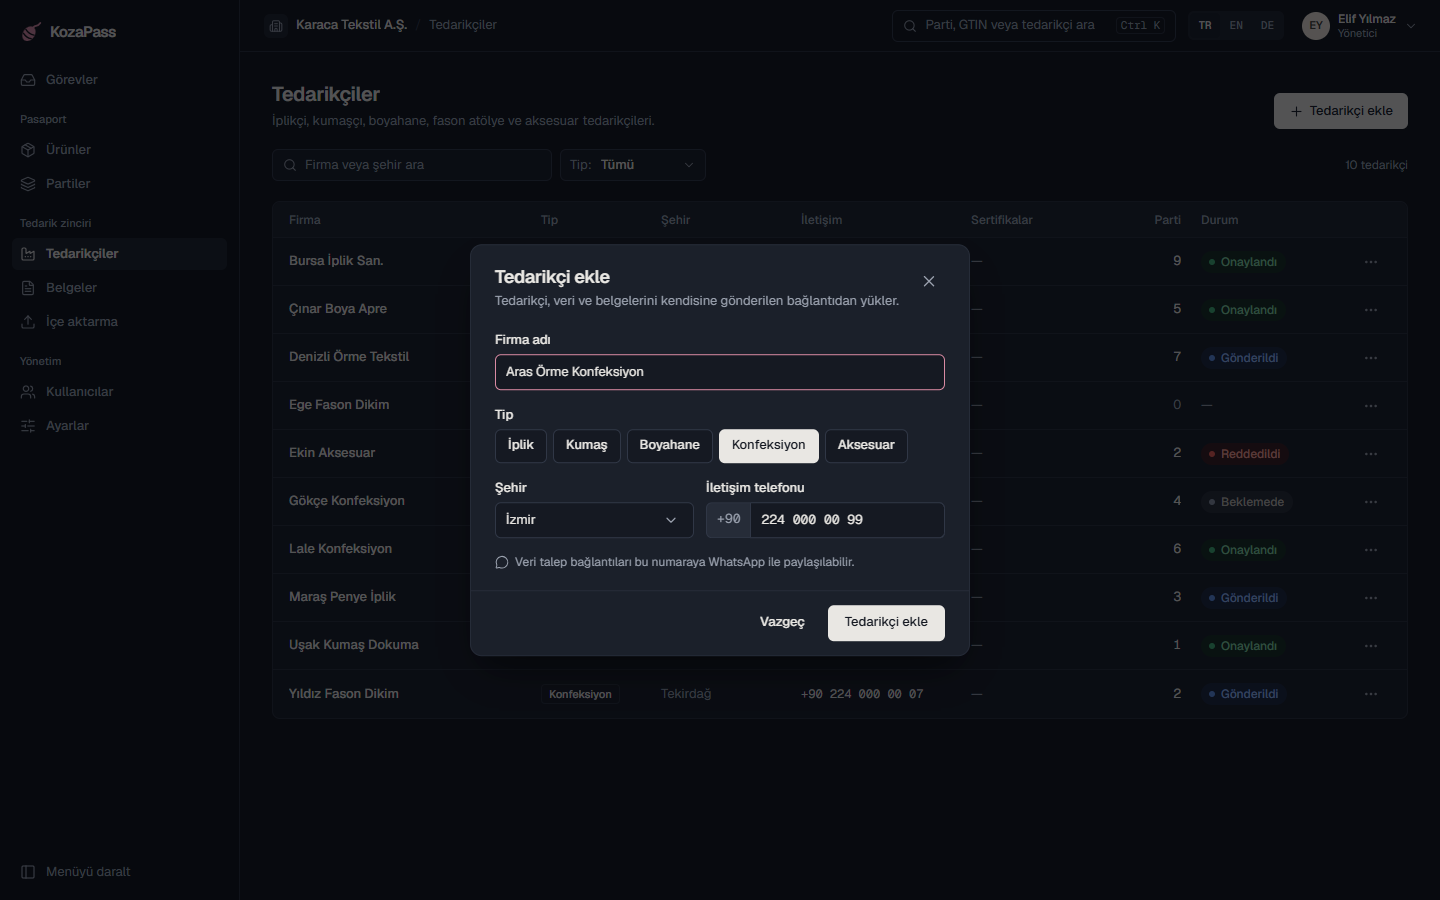
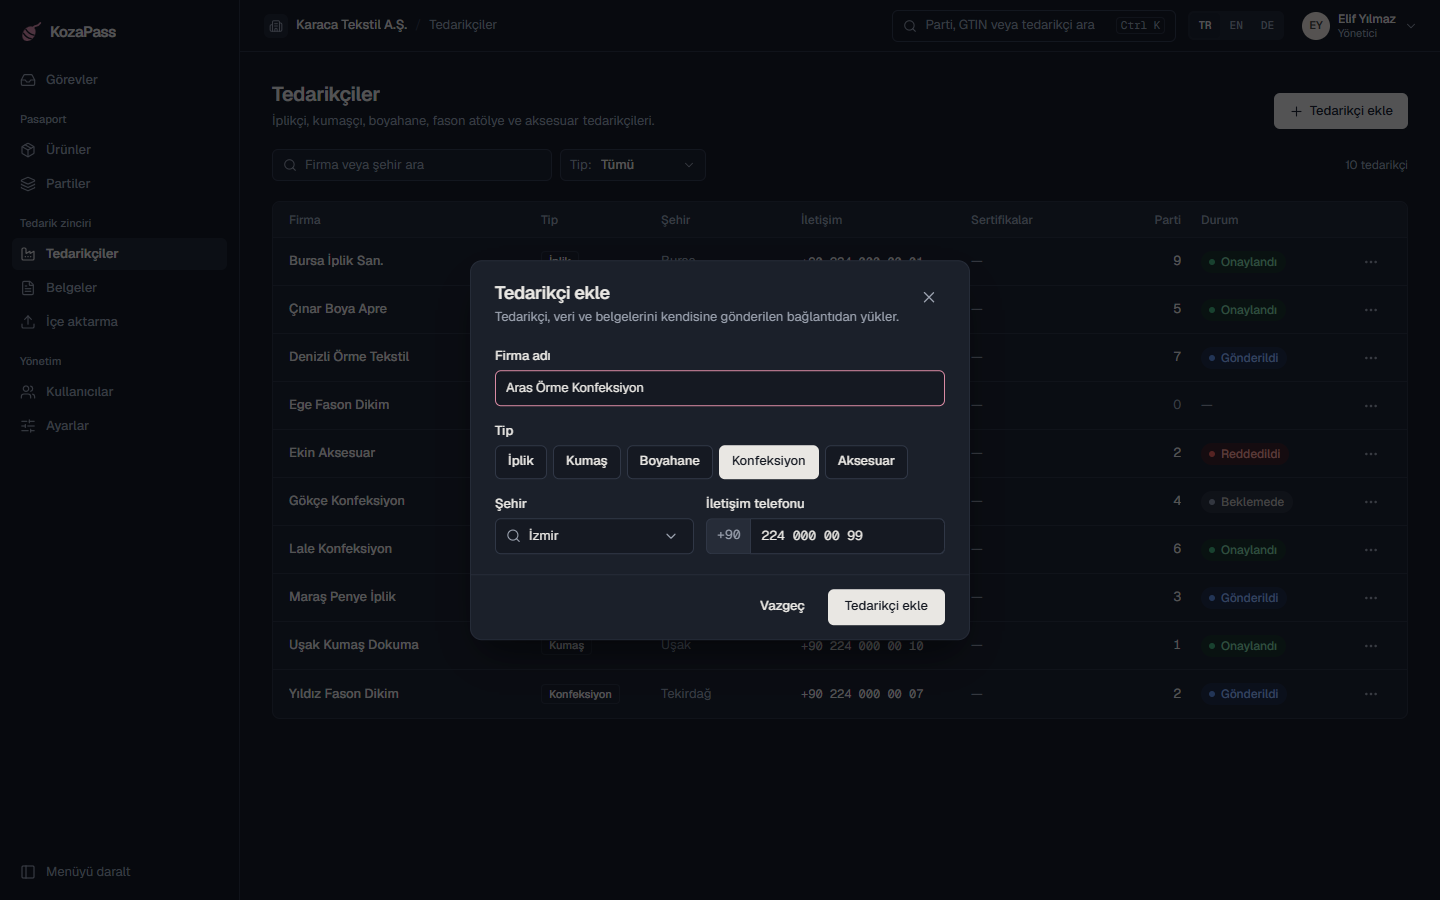
test(web): screenshots impl-v0.3.2 31-38, refresh impl-v0.3 and impl-v0.3.1

Changed region(s): [[0.3125, 0.28, 0.6875, 0.7467]]

diff --git a/web/e2e/screenshots-v032.spec.ts b/web/e2e/screenshots-v032.spec.ts
@@ -1,0 +1,211 @@
+import { expect, type Page, test } from "@playwright/test";
+import path from "node:path";
+import { mockAuthApi } from "./api-mock";
+import { mockCatalogApi, NOW } from "./catalog-mock";
+import { captureDesignFrames, serveDesign } from "./design-capture";
+
+/*
+ * Screenshots for the side-by-side review with Claude Design v0.3.2 (docs/design/impl-v0.3.2/), frames 31–38.
+ * NN-<theme>.png come from the app, design-NN-<theme>.png from the approved design file.
+ * Run: pnpm --filter web e2e screenshots-v032
+ */
+const OUT = path.resolve(__dirname, "../../docs/design/impl-v0.3.2");
+const DESIGN_DIR = path.resolve(__dirname, "../../docs/design/v0.3.2");
+const DESKTOP = { width: 1440, height: 900 };
+
+type Scheme = "light" | "dark";
+
+async function prepare(page: Page, scheme: Scheme, { clock = true } = {}) {
+  await page.setViewportSize(DESKTOP);
+  if (clock) await page.clock.install({ time: NOW });
+  await page.addInitScript((theme) => localStorage.setItem("theme", theme), scheme);
+}
+
+async function shoot(page: Page, name: string) {
+  await page.evaluate(() => document.fonts.ready);
+  await page.waitForTimeout(400);
+  await page.screenshot({ path: `${OUT}/${name}.png` });
+}
+
+/** The server sleeps: the liveness check never answers 200 and the first `url` request never answers. */
+async function sleepingServer(page: Page, url: RegExp, method = "GET") {
+  await page.route("**/api/health", (route) => route.fulfill({ status: 503, body: "" }));
+  let first = true;
+  await page.route(url, (route) => {
+    if (route.request().method() !== method) return route.fallback();
+    if (first) {
+      first = false;
+      return undefined;
+    }
+    return route.fallback();
+  });
+}
+
+async function openSuppliers(page: Page) {
+  await mockAuthApi(page, { signedIn: true });
+  await mockCatalogApi(page);
+  await page.goto("/suppliers");
+  await expect(page.getByRole("row", { name: /Bursa İplik San\./ })).toBeVisible();
+}
+
+for (const scheme of ["light", "dark"] as const) {
+  test.describe(`${scheme} theme`, () => {
+    test.use({ colorScheme: scheme });
+
+    test("31a login, the server is starting", async ({ page }) => {
+      await prepare(page, scheme);
+      await mockAuthApi(page, { signedIn: false });
+      await sleepingServer(page, /\/api\/v1\/auth\/login$/, "POST");
+      await page.goto("/login");
+      await page.getByLabel("E-posta").fill("elif@karacatekstil.com.tr");
+      await page.getByLabel("Şifre", { exact: true }).fill("demo-sifre");
+      await page.getByRole("button", { name: "Giriş yap" }).click();
+      await expect(page.getByRole("status").filter({ hasText: "Sunucu hazırlanıyor" })).toBeVisible({ timeout: 6_000 });
+      // As in the design: about half a minute in.
+      await page.clock.fastForward(31_000);
+      await expect(page.getByRole("status").filter({ hasText: "0:3" })).toBeVisible();
+      await page.mouse.move(0, 0);
+      await shoot(page, `31a-${scheme}`);
+    });
+
+    test("31b login, not ready after 90 s", async ({ page }) => {
+      await prepare(page, scheme);
+      await mockAuthApi(page, { signedIn: false });
+      await sleepingServer(page, /\/api\/v1\/auth\/login$/, "POST");
+      await page.goto("/login");
+      await page.getByLabel("E-posta").fill("elif@karacatekstil.com.tr");
+      await page.getByLabel("Şifre", { exact: true }).fill("demo-sifre");
+      await page.getByRole("button", { name: "Giriş yap" }).click();
+      await expect(page.getByRole("status").filter({ hasText: "Sunucu hazırlanıyor" })).toBeVisible({ timeout: 6_000 });
+      await page.clock.fastForward(91_000);
+      await expect(page.getByRole("button", { name: "Tekrar dene" })).toBeEnabled();
+      await page.mouse.move(0, 0);
+      await shoot(page, `31b-${scheme}`);
+    });
+
+    test("32 batches, the server is starting", async ({ page }) => {
+      await prepare(page, scheme);
+      await mockAuthApi(page, { signedIn: true });
+      await mockCatalogApi(page);
+      await sleepingServer(page, /\/api\/v1\/batches(\?.*)?$/);
+      await page.goto("/batches");
+      await expect(page.getByRole("status").filter({ hasText: "Hazır olunca liste" })).toBeVisible({ timeout: 6_000 });
+      await page.clock.fastForward(20_000);
+      await page.mouse.move(0, 0);
+      await shoot(page, `32-${scheme}`);
+    });
+
+    test("33 product save, server error toast", async ({ page }) => {
+      await prepare(page, scheme);
+      await mockAuthApi(page, { signedIn: true });
+      await mockCatalogApi(page);
+      await page.route(/\/api\/v1\/products\/[0-9a-f-]+$/, (route) =>
+        route.request().method() !== "PATCH"
+          ? route.fallback()
+          : route.fulfill({
+              status: 503,
+              contentType: "application/problem+json",
+              headers: { "X-Request-Id": "ab12-cd34" },
+              body: JSON.stringify({ type: "urn:tekpas:problem:internal", title: "Service unavailable", status: 503, requestId: "ab12-cd34" }),
+            }),
+      );
+      await page.goto("/products");
+      await page.getByRole("button", { name: "Satır menüsü: Organik pamuk tişört, ekru" }).click();
+      await page.getByRole("menuitem", { name: "Düzenle" }).click();
+      const form = page.getByRole("dialog", { name: "Ürünü düzenle" });
+      await form.getByLabel("SKU").fill("KT-TS-0142-B");
+      await form.getByRole("button", { name: "Kaydet" }).click();
+      await expect(page.getByRole("alert").filter({ hasText: "Ürün kaydedilemedi" })).toBeVisible();
+      await page.mouse.move(0, 0);
+      await shoot(page, `33-${scheme}`);
+    });
+
+    test("34 batches, no result for the search and filters", async ({ page }) => {
+      await prepare(page, scheme);
+      await mockAuthApi(page, { signedIn: true });
+      await mockCatalogApi(page);
+      await page.goto("/batches?supplierId=00000000-0000-4000-8000-000000000101");
+      await page.getByRole("searchbox", { name: "Parti no veya üretim emri ara" }).fill("KP-2025");
+      await expect(page.getByRole("heading", { name: "Eşleşen parti yok" })).toBeVisible();
+      await page.getByRole("searchbox", { name: "Parti no veya üretim emri ara" }).blur();
+      await page.mouse.move(0, 0);
+      await shoot(page, `34-${scheme}`);
+    });
+
+    test("35 batches, supplier filter chip", async ({ page }) => {
+      await prepare(page, scheme);
+      await mockAuthApi(page, { signedIn: true });
+      await mockCatalogApi(page);
+      await page.goto("/batches?supplierId=00000000-0000-4000-8000-000000000101");
+      await expect(page.getByText("3 parti")).toBeVisible();
+      await page.mouse.move(0, 0);
+      await shoot(page, `35-${scheme}`);
+    });
+
+    test("36a edit supplier, the company has its own account", async ({ page }) => {
+      await prepare(page, scheme);
+      await openSuppliers(page);
+      await page.getByRole("button", { name: "Satır menüsü: Ekin Aksesuar" }).click();
+      await page.getByRole("menuitem", { name: "Düzenle" }).click();
+      await expect(page.getByRole("dialog", { name: "Tedarikçiyi düzenle" })).toBeVisible();
+      await page.mouse.move(0, 0);
+      await shoot(page, `36a-${scheme}`);
+    });
+
+    test("36b edit supplier, type locked", async ({ page }) => {
+      await prepare(page, scheme);
+      await openSuppliers(page);
+      await page.getByRole("button", { name: "Satır menüsü: Bursa İplik San." }).click();
+      await page.getByRole("menuitem", { name: "Düzenle" }).click();
+      const form = page.getByRole("dialog", { name: "Tedarikçiyi düzenle" });
+      await form.getByLabel("Firma adı").focus();
+      await page.mouse.move(0, 0);
+      await shoot(page, `36b-${scheme}`);
+    });
+
+    test("37 searchable city, 'bur'", async ({ page }) => {
+      await prepare(page, scheme);
+      await openSuppliers(page);
+      await page.getByRole("button", { name: "Tedarikçi ekle" }).click();
+      const form = page.getByRole("dialog", { name: "Tedarikçi ekle" });
+      await form.getByLabel("Firma adı").fill("Aras Örme Konfeksiyon");
+      await form.getByRole("radio", { name: "Konfeksiyon" }).click();
+      await form.getByLabel("İletişim telefonu").fill("224 000 00 99");
+      await form.getByRole("combobox", { name: "Şehir" }).click();
+      await form.getByRole("combobox", { name: "Şehir" }).fill("bur");
+      await expect(page.getByText("3 il eşleşti")).toBeVisible();
+      await page.mouse.move(0, 0);
+      await shoot(page, `37-${scheme}`);
+    });
+
+    test("38 product form, field errors and focus", async ({ page }) => {
+      await prepare(page, scheme);
+      await mockAuthApi(page, { signedIn: true });
+      await mockCatalogApi(page);
+      await page.goto("/products");
+      await page.getByRole("button", { name: "Yeni ürün" }).click();
+      const form = page.getByRole("dialog", { name: "Yeni ürün" });
+      await form.getByLabel("GTIN").fill("4006381333932");
+      await form.getByLabel("SKU").fill("kt ts 01!");
+      await form.getByLabel("Lif 1 oranı (%)").fill("95");
+      await form.getByRole("button", { name: "Lif ekle" }).click();
+      await form.getByLabel("Lif 2 oranı (%)").fill("5");
+      await form.getByRole("button", { name: "Kaydet" }).click();
+      await expect(form.getByLabel("Ürün adı")).toBeFocused();
+      await page.mouse.move(0, 0);
+      await shoot(page, `38-${scheme}`);
+    });
+  });
+}
+
+test.describe("design references", () => {
+  // The design canvas (third-party support.js) sometimes never lays out a frame; a fresh page fixes it.
+  test.describe.configure({ retries: 2 });
+  const design = serveDesign(DESIGN_DIR);
+
+  test("capture 31–38", async ({ page }) => {
+    test.setTimeout(300_000);
+    const frames = ["31a", "31b", "32", "33", "34", "35", "36a", "36b", "37", "38"];
+    await captureDesignFrames(page, design.url("KozaPass_v0.3.2.dc.html"), OUT, frames);
+  });
+});

diff --git a/web/e2e/design-capture.ts b/web/e2e/design-capture.ts
@@ -34,11 +34,12 @@ export function serveDesign(dir: string) {
 }
 
 /**
- * Opens a design canvas and saves each top-level frame ("NN …") whose number is in `frames`, light and dark
+ * Opens a design canvas and saves each top-level frame ("NN …" or "NNa …") listed in `frames`, light and dark
  * side by side in the canvas, as `<out>/design-NN-<theme>.png`. Skips the test when the canvas cannot load
  * React from unpkg.com.
  */
-export async function captureDesignFrames(page: Page, url: string, out: string, frames: number[]) {
+export async function captureDesignFrames(page: Page, url: string, out: string, frames: (number | string)[]) {
+  const wanted = frames.map((f) => (typeof f === "number" ? String(f).padStart(2, "0") : f));
   await page.setViewportSize({ width: 1600, height: 1000 });
   // Some networks block unpkg.com; jsDelivr serves the same npm files under the same path.
   await page.route("https://unpkg.com/**", async (route) => {
@@ -61,17 +62,16 @@ export async function captureDesignFrames(page: Page, url: string, out: string, 
   // Top-level frames only; the panels inside carry labels of their own.
   const found = await page.$$eval("[data-screen-label]", (els) =>
     els
-      .map((e) => /^(\d\d) /.exec(e.getAttribute("data-screen-label") ?? "")?.[1])
+      .map((e) => /^(\d\d[a-z]?) /.exec(e.getAttribute("data-screen-label") ?? "")?.[1])
       .flatMap((n, i) => {
         if (!n) return [];
         els[i].setAttribute("data-cap", n);
-        return [Number(n)];
+        return [n];
       }),
   );
-  expect(found).toEqual(expect.arrayContaining(frames));
+  expect(found).toEqual(expect.arrayContaining(wanted));
 
-  for (const number of frames) {
-    const n = String(number).padStart(2, "0");
+  for (const n of wanted) {
     const label = page.locator(`[data-cap="${n}"]`).first();
     for (const [j, scheme] of (["light", "dark"] as const).entries()) {
       // The canvas renders a frame once its label is scrolled into view.
